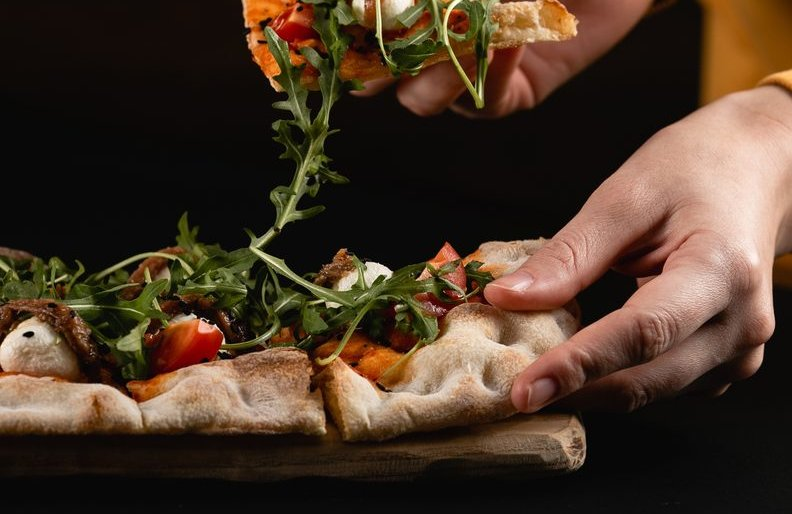
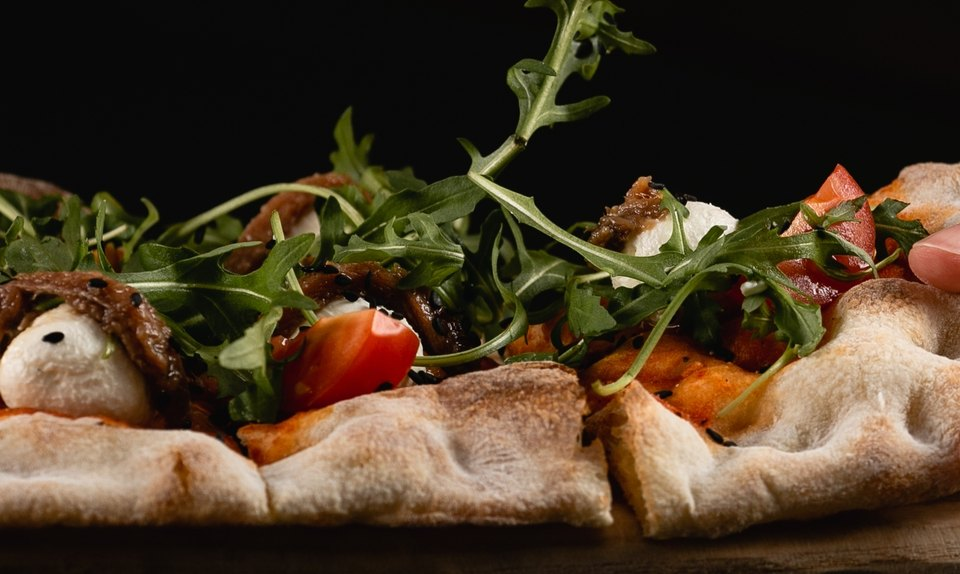
Add files via upload

diff --git a/index.html b/index.html
@@ -5,6 +5,24 @@
 <meta name="viewport" content="width=device-width, initial-scale=1">
 <title>goumi — cook hands-free, guided by your voice</title>
 <meta name="description" content="goumi creates recipes with AI and guides you through them by voice, so your hands stay on the food, never the screen.">
+<link rel="icon" href="favicon.ico" sizes="any">
+<link rel="icon" type="image/png" sizes="32x32" href="favicon-32.png">
+<link rel="icon" type="image/png" sizes="16x16" href="favicon-16.png">
+<link rel="apple-touch-icon" sizes="180x180" href="apple-touch-icon.png">
+<meta name="theme-color" content="#306840">
+<meta property="og:type" content="website">
+<meta property="og:site_name" content="goumi">
+<meta property="og:title" content="goumi — cook hands-free, guided by your voice">
+<meta property="og:description" content="goumi creates recipes with AI and reads them aloud step by step, so your hands stay on the food, never the screen.">
+<meta property="og:url" content="https://goumi.ai/">
+<meta property="og:image" content="https://goumi.ai/og-image.jpg">
+<meta property="og:image:width" content="1200">
+<meta property="og:image:height" content="630">
+<meta property="og:image:alt" content="goumi — cook hands-free, AI recipes read aloud">
+<meta name="twitter:card" content="summary_large_image">
+<meta name="twitter:title" content="goumi — cook hands-free, guided by your voice">
+<meta name="twitter:description" content="AI recipes, read aloud while you cook. Hands on the food, never the screen.">
+<meta name="twitter:image" content="https://goumi.ai/og-image.jpg">
 <link rel="preconnect" href="https://fonts.googleapis.com">
 <link rel="preconnect" href="https://fonts.gstatic.com" crossorigin>
 <link href="https://fonts.googleapis.com/css2?family=Plus+Jakarta+Sans:wght@400;500;600;700;800&display=swap" rel="stylesheet">
@@ -55,6 +73,18 @@ body{font-family:var(--sans);color:var(--ink);background:var(--bg);line-height:1
 .nav .links{margin-left:auto;display:flex;align-items:center;gap:26px}
 .nav .links a:not(.btn-primary){color:var(--slate);text-decoration:none;font-weight:600;font-size:14.5px;transition:color .2s}
 .nav .links a:hover{color:var(--forest)}
+/* always-listening wave */
+.listening{display:inline-flex;align-items:center;gap:8px;padding:6px 11px;border-radius:999px;background:rgba(48,104,64,.09);border:1px solid rgba(48,104,64,.16)}
+.listening .wv{display:inline-flex;align-items:center;gap:2.5px;height:15px}
+.listening .wv i{width:2.5px;height:100%;border-radius:2px;background:var(--forest);transform-origin:center;animation:wv 1.1s ease-in-out infinite}
+.listening .wv i:nth-child(1){animation-delay:-.90s}
+.listening .wv i:nth-child(2){animation-delay:-.55s}
+.listening .wv i:nth-child(3){animation-delay:-.20s}
+.listening .wv i:nth-child(4){animation-delay:-.75s}
+.listening .wv i:nth-child(5){animation-delay:-.40s}
+@keyframes wv{0%,100%{transform:scaleY(.32)}50%{transform:scaleY(1)}}
+.listening .lt{font-size:12px;font-weight:600;color:var(--forest);letter-spacing:.01em;white-space:nowrap}
+@media(max-width:760px){.listening{display:none}}
 .btn{display:inline-flex;align-items:center;justify-content:center;gap:8px;font-weight:700;font-size:14.5px;text-decoration:none;border:none;cursor:pointer;border-radius:13px;padding:11px 18px;transition:transform .2s,box-shadow .2s}
 .btn-primary{background:linear-gradient(180deg,#347f48,#1e4d2e);color:#fff;font-weight:800;text-shadow:0 1px 2px rgba(0,0,0,.25);box-shadow:0 8px 20px -8px rgba(31,74,46,.55)}
 .btn-primary:hover{transform:translateY(-1px);box-shadow:0 12px 26px -8px rgba(31,74,46,.7),inset 0 1px 0 rgba(255,255,255,.25)}
@@ -142,9 +172,10 @@ h2{font-size:clamp(28px,4vw,42px);line-height:1.08;letter-spacing:-.03em;font-we
 .step-c p{color:var(--slate);font-size:14.5px;line-height:1.55}
 
 /* showcase */
-.show{display:flex;gap:24px;justify-content:center;align-items:flex-end;flex-wrap:wrap}
-.show .phone{width:266px}
-.show .phone.mid{width:266px}
+.show{display:flex;gap:18px;justify-content:center;align-items:flex-end;flex-wrap:nowrap}
+.show > div{flex:1 1 0;min-width:0;max-width:262px;display:flex;flex-direction:column}
+.show .phone{width:100%}
+.show .phone.mid{width:100%}
 .cap{text-align:center;margin-top:14px;font-size:14px;font-weight:700;color:var(--forest-deep)}
 .cap span{display:block;font-weight:500;font-size:12.5px;color:var(--slate);margin-top:2px}
 
@@ -167,14 +198,14 @@ h2{font-size:clamp(28px,4vw,42px);line-height:1.08;letter-spacing:-.03em;font-we
 .stats svg{width:13px;height:13px}
 
 /* recipe detail mock */
-.rd{flex:1;display:flex;flex-direction:column;padding-bottom:0}
-.rd .hero-img{height:140px;background:linear-gradient(to top,rgba(0,0,0,.6),rgba(0,0,0,.12) 40%,rgba(0,0,0,0) 64%),url('flatbread.jpg') 50% 50%/cover no-repeat,linear-gradient(150deg,#E9A66B,#D9543B);position:relative;display:flex;align-items:flex-end;padding:16px}
+.rd{flex:1;display:flex;flex-direction:column;padding-bottom:70px}
+.rd .hero-img{height:140px;background:linear-gradient(to top,rgba(0,0,0,.6),rgba(0,0,0,.12) 40%,rgba(0,0,0,0) 64%),url('flatbread.jpg') 50% 45%/cover no-repeat,linear-gradient(150deg,#E9A66B,#D9543B);position:relative;display:flex;align-items:flex-end;padding:16px}
 .rd .hero-img .ai{position:absolute;top:46px;left:14px;font-size:9.5px;font-weight:700;color:#fff;background:rgba(0,0,0,.3);-webkit-backdrop-filter:blur(6px);backdrop-filter:blur(6px);padding:3px 8px;border-radius:999px}
 .rd .hero-img b{color:#fff;font-size:20px;font-weight:800;letter-spacing:-.02em;text-shadow:0 2px 10px rgba(0,0,0,.4)}
 .rd .chips{display:flex;gap:7px;padding:14px 16px 8px;flex-wrap:wrap}
 .rd .chips span{display:inline-flex;align-items:center;gap:4px;font-size:11px;font-weight:600;color:var(--forest-deep);background:rgba(255,255,255,.72);border:1px solid rgba(255,255,255,.8);padding:6px 10px;border-radius:999px}
 .rd .chips svg{width:13px;height:13px}
-.rd .ing{padding:6px 16px 14px}
+.rd .ing{padding:6px 16px 14px;flex:1;overflow:hidden;min-height:0}
 .rd .ing h5{font-size:13px;font-weight:800;color:var(--forest-deep);margin-bottom:8px}
 .rd .ing li{list-style:none;display:flex;align-items:center;gap:9px;font-size:13px;color:var(--ink);padding:5px 0;border-bottom:1px solid rgba(31,74,46,.07)}
 .rd .ing li::before{content:"";width:7px;height:7px;border-radius:50%;background:var(--leaf);flex:none}
@@ -213,9 +244,12 @@ footer{margin-top:70px;border-top:1px solid var(--line);padding:46px 0 34px}
   .steps{grid-template-columns:1fr}
   .fgrid{grid-template-columns:1fr;gap:24px}
 }
+@media(max-width:720px){
+  .show{flex-direction:column;align-items:center}
+  .show > div{flex:none;width:min(300px,86vw);max-width:none}
+}
 @media(max-width:480px){
   .grid4{grid-template-columns:1fr}
-  .show .phone,.show .phone.mid{width:270px}
 }
 @media (prefers-reduced-motion:reduce){
   *{animation:none!important;scroll-behavior:auto}
@@ -233,6 +267,7 @@ footer{margin-top:70px;border-top:1px solid var(--line);padding:46px 0 34px}
 <div class="nav-outer">
   <nav class="nav glass">
     <a class="brand" href="index.html"><img src="goumi-logo.png" class="brandlogo" alt="goumi"></a>
+    <div class="listening" title="goumi talks you through every step, hands-free"><span class="wv"><i></i><i></i><i></i><i></i><i></i></span><span class="lt">always listening</span></div>
     <div class="links">
       <a href="#features">Features</a>
       <a href="#how">How it works</a>

diff --git a/cookie-policy.html b/cookie-policy.html
@@ -2,6 +2,11 @@
 <html lang="en"><head>
 <meta charset="utf-8"><meta name="viewport" content="width=device-width, initial-scale=1">
 <title>goumi — Cookie Policy</title>
+<link rel="icon" href="favicon.ico" sizes="any">
+<link rel="icon" type="image/png" sizes="32x32" href="favicon-32.png">
+<link rel="icon" type="image/png" sizes="16x16" href="favicon-16.png">
+<link rel="apple-touch-icon" sizes="180x180" href="apple-touch-icon.png">
+<meta name="theme-color" content="#306840">
 <meta name="robots" content="noindex">
 <link rel="preconnect" href="https://fonts.googleapis.com"><link rel="preconnect" href="https://fonts.gstatic.com" crossorigin>
 <link href="https://fonts.googleapis.com/css2?family=Plus+Jakarta+Sans:wght@400;500;600;700;800&display=swap" rel="stylesheet">

diff --git a/health-data-policy.html b/health-data-policy.html
@@ -2,6 +2,11 @@
 <html lang="en"><head>
 <meta charset="utf-8"><meta name="viewport" content="width=device-width, initial-scale=1">
 <title>goumi — Consumer Health Data Privacy Policy</title>
+<link rel="icon" href="favicon.ico" sizes="any">
+<link rel="icon" type="image/png" sizes="32x32" href="favicon-32.png">
+<link rel="icon" type="image/png" sizes="16x16" href="favicon-16.png">
+<link rel="apple-touch-icon" sizes="180x180" href="apple-touch-icon.png">
+<meta name="theme-color" content="#306840">
 <meta name="robots" content="noindex">
 <link rel="preconnect" href="https://fonts.googleapis.com"><link rel="preconnect" href="https://fonts.gstatic.com" crossorigin>
 <link href="https://fonts.googleapis.com/css2?family=Plus+Jakarta+Sans:wght@400;500;600;700;800&display=swap" rel="stylesheet">

diff --git a/privacy.html b/privacy.html
@@ -2,6 +2,11 @@
 <html lang="en"><head>
 <meta charset="utf-8"><meta name="viewport" content="width=device-width, initial-scale=1">
 <title>goumi — Privacy Policy</title>
+<link rel="icon" href="favicon.ico" sizes="any">
+<link rel="icon" type="image/png" sizes="32x32" href="favicon-32.png">
+<link rel="icon" type="image/png" sizes="16x16" href="favicon-16.png">
+<link rel="apple-touch-icon" sizes="180x180" href="apple-touch-icon.png">
+<meta name="theme-color" content="#306840">
 <meta name="robots" content="noindex">
 <link rel="preconnect" href="https://fonts.googleapis.com"><link rel="preconnect" href="https://fonts.gstatic.com" crossorigin>
 <link href="https://fonts.googleapis.com/css2?family=Plus+Jakarta+Sans:wght@400;500;600;700;800&display=swap" rel="stylesheet">

diff --git a/terms.html b/terms.html
@@ -2,6 +2,11 @@
 <html lang="en"><head>
 <meta charset="utf-8"><meta name="viewport" content="width=device-width, initial-scale=1">
 <title>goumi — Terms of Service</title>
+<link rel="icon" href="favicon.ico" sizes="any">
+<link rel="icon" type="image/png" sizes="32x32" href="favicon-32.png">
+<link rel="icon" type="image/png" sizes="16x16" href="favicon-16.png">
+<link rel="apple-touch-icon" sizes="180x180" href="apple-touch-icon.png">
+<meta name="theme-color" content="#306840">
 <meta name="robots" content="noindex">
 <link rel="preconnect" href="https://fonts.googleapis.com"><link rel="preconnect" href="https://fonts.gstatic.com" crossorigin>
 <link href="https://fonts.googleapis.com/css2?family=Plus+Jakarta+Sans:wght@400;500;600;700;800&display=swap" rel="stylesheet">

diff --git a/README.md b/README.md
@@ -1,22 +1,26 @@
 # goumi — website
 
-Marketing website for goumi (a hands-free, AI + voice cooking app). Plain HTML/CSS, no build step, all files in one folder. Domain: goumi.ai
+Marketing website for goumi (hands-free, AI + voice cooking app). Plain HTML/CSS, no build step, everything in one folder. Domain: goumi.ai
 
 ## Files
 - `index.html` — landing page
 - `privacy.html`, `health-data-policy.html`, `terms.html`, `cookie-policy.html` — policy pages
 - `goumi-logo.png` — brand logo
+- `favicon.ico`, `favicon-16.png`, `favicon-32.png`, `apple-touch-icon.png`, `favicon-512.png` — site/app icons
+- `og-image.jpg` — social-share preview (1200×630), used by SMS/iMessage/WhatsApp/social link previews
 - `flatbread.jpg`, `tostadas.jpg`, `table-spread.jpg`, `wok.jpg` — food photos
 
 ## Deploy with GitHub Pages
-1. Push these files to the **root** of a GitHub repository.
-2. Repo → **Settings → Pages**.
-3. **Source: Deploy from a branch**, **Branch: `main` / `root`**, then **Save**.
-4. Live at `https://<username>.github.io/<repo>/` in a minute or two. (Point your goumi.ai domain at it via a CNAME when ready.)
+1. Push these files to the **root** of a GitHub repo.
+2. Repo → **Settings → Pages** → Source: **Deploy from a branch**, Branch: **main / root**, Save.
+3. Live in ~1–2 min. Point goumi.ai at it (add a `CNAME` file containing `goumi.ai` and set DNS).
 
-`.nojekyll` is included so every file is served as-is.
+`.nojekyll` is included so all files are served as-is.
+
+## Important: social-share image
+The share preview tags use **absolute** `https://goumi.ai/...` URLs, so the link preview image only appears once the site is live at **goumi.ai**. If you test on a temporary GitHub Pages URL first, the preview image won't load until the goumi.ai domain points here.
 
 ## Before you go live
-- **Fill the placeholders** in the policy pages — legal name, ABN, contact email, address, dates (shown as `[like this]`) — and get a lawyer's sign-off, then remove the "draft for legal review" banner.
-- **App Store links** — replace the placeholder `href="#"` on the "Get goumi" button and App Store badges with your real App Store URL.
+- **Fill the placeholders** in the policy pages (legal name, ABN, contact email, address, dates — shown as `[like this]`), get a lawyer's review, then remove the "draft for legal review" banner.
+- **App Store links** — replace the placeholder `href="#"` on the "Get goumi" button and App Store badges with your real URL.
 - **Image licensing** — the food photos are Shutterstock; confirm your licence covers website use.